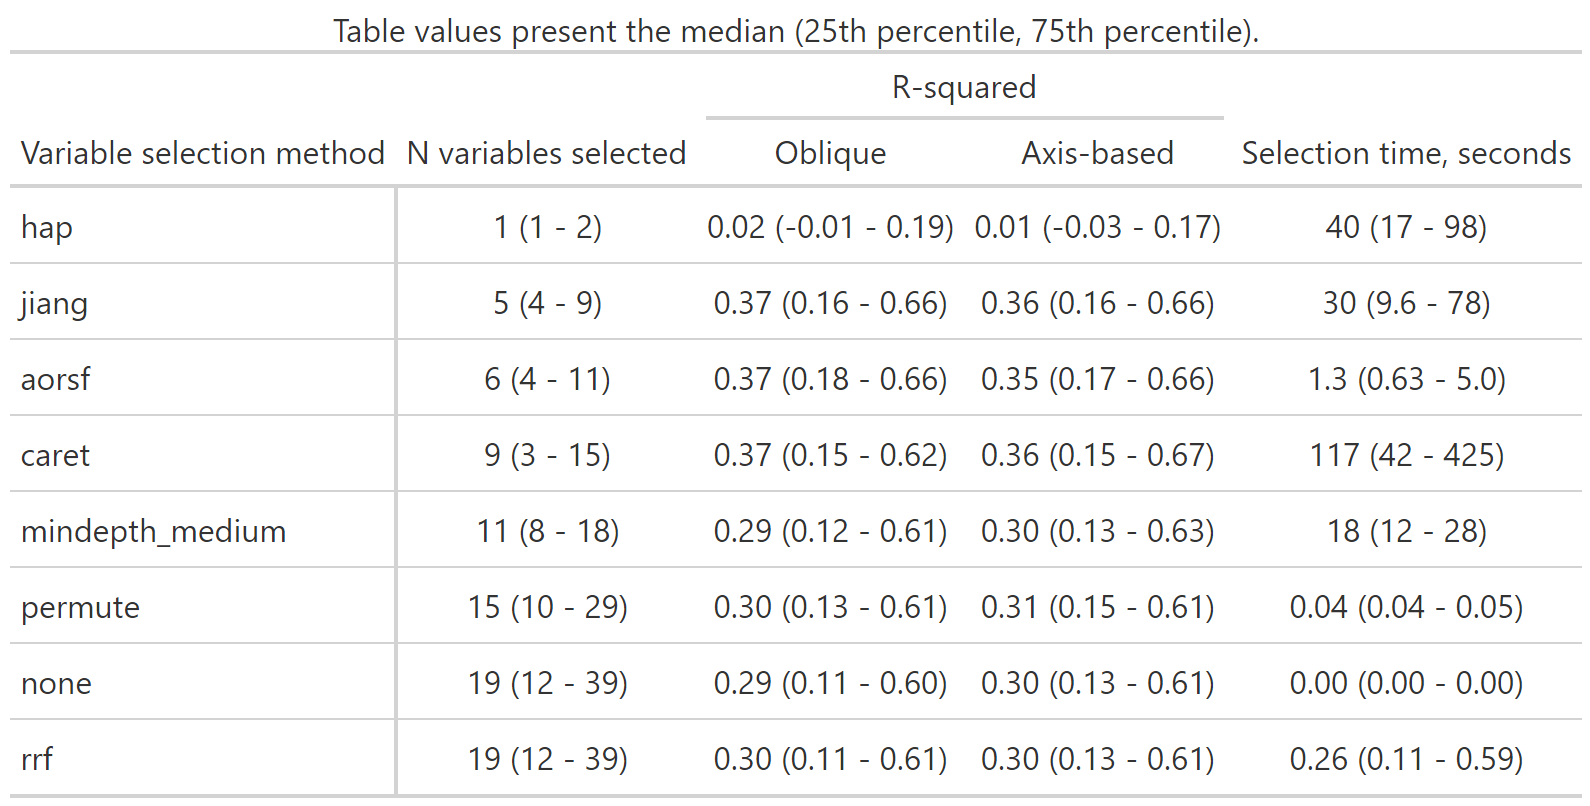
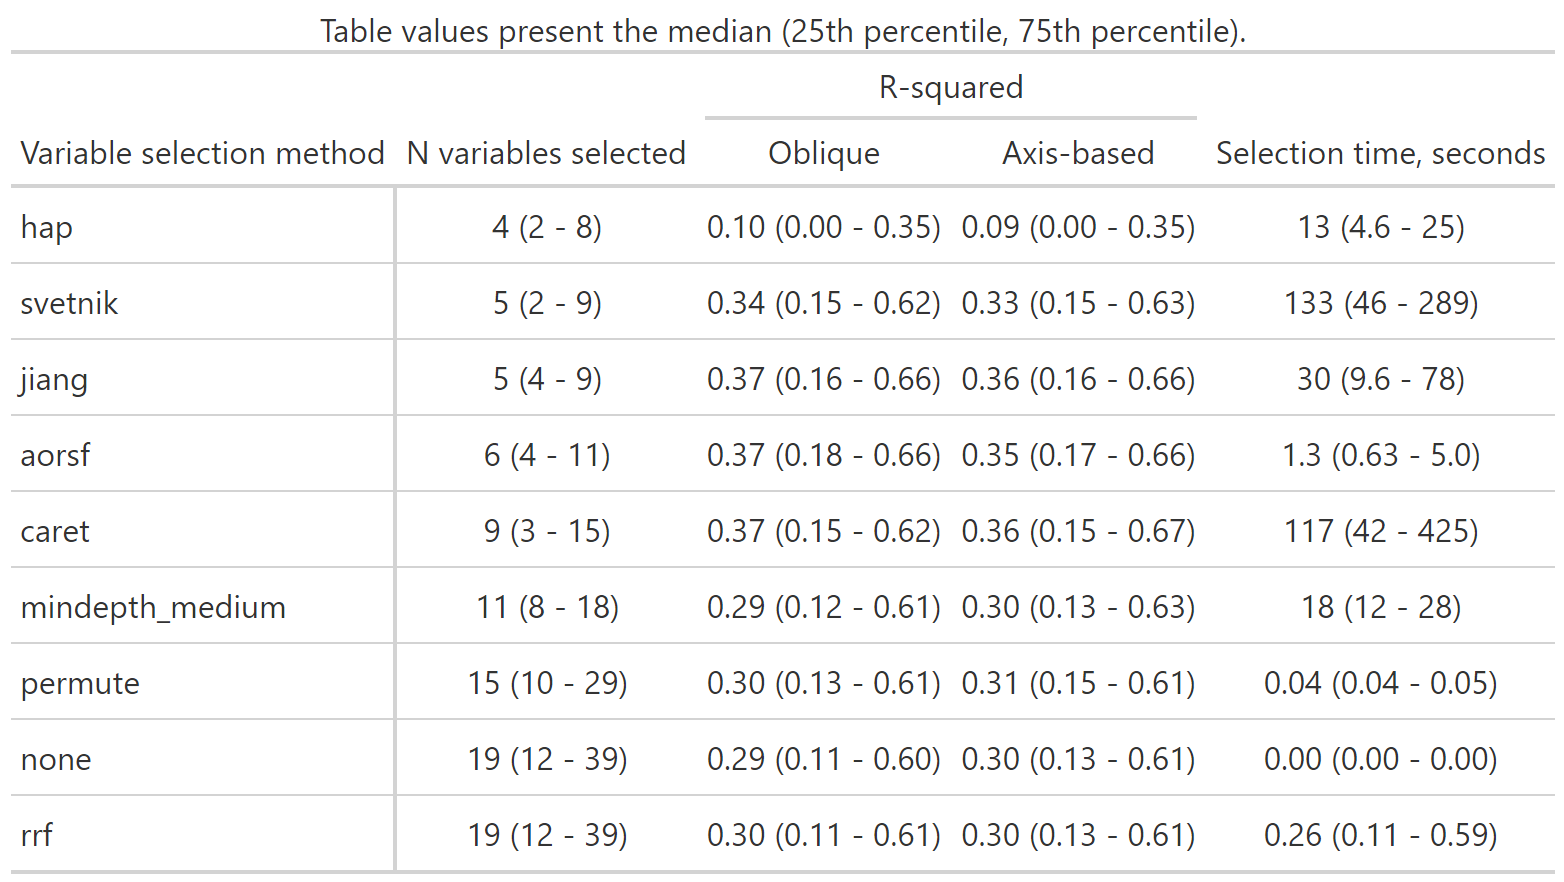
svetnik incorporation

diff --git a/README.md b/README.md
@@ -27,7 +27,7 @@ in step 2.
 We assume that better variable selection leads to better prediction
 accuracy. Results from the experiment are below.
 
-<img src="README_files/figure-gfm/unnamed-chunk-3-1.png" width="1590" />
+<img src="README_files/figure-gfm/unnamed-chunk-3-1.png" width="1564" />
 
 Similar results, but using mean and standard error
 
